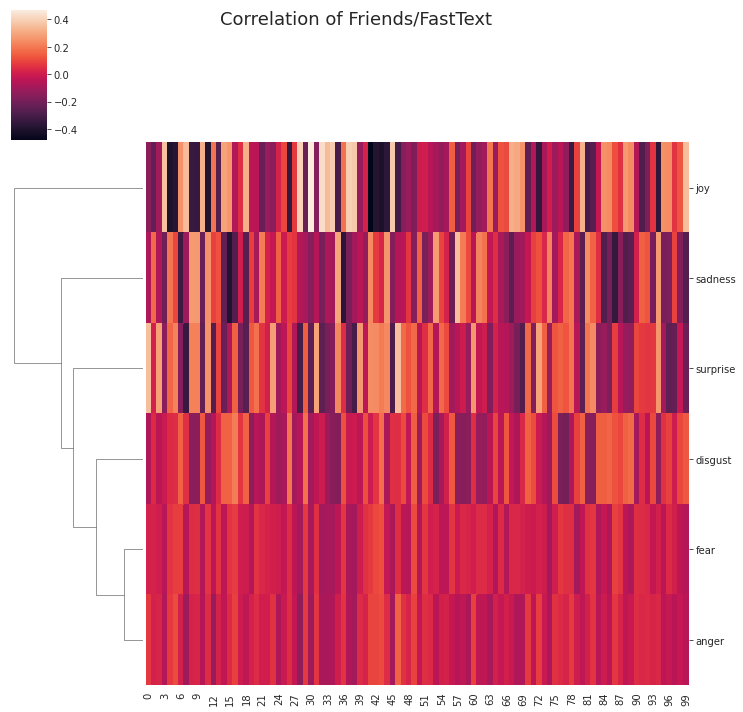
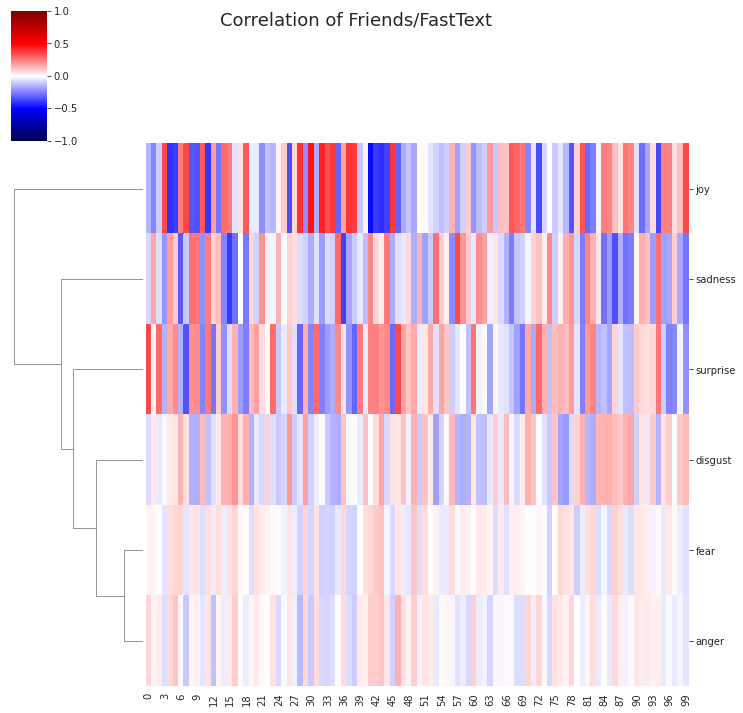
Update Correlation plots.

diff --git a/exploration/01_corr.py b/exploration/01_corr.py
@@ -53,7 +53,7 @@ for i, ds in enumerate(dss):
     assert np.isfinite(x).all() == True, "Some infinites or nan in correlations"
     if np.isfinite(x).all() != True:
         continue
-    g = sns.clustermap(x, col_cluster=False)
+    g = sns.clustermap(x, col_cluster=False, vmin=-1, vmax=1, cmap=plt.get_cmap("seismic"))
     t = [int(tick_label.get_text()) for tick_label in g.ax_heatmap.axes.get_yticklabels()]
     sorted_e = [x for _,x in sorted(zip(t,ind))]
     g.ax_heatmap.axes.set_yticklabels(sorted_e,  rotation=0)
